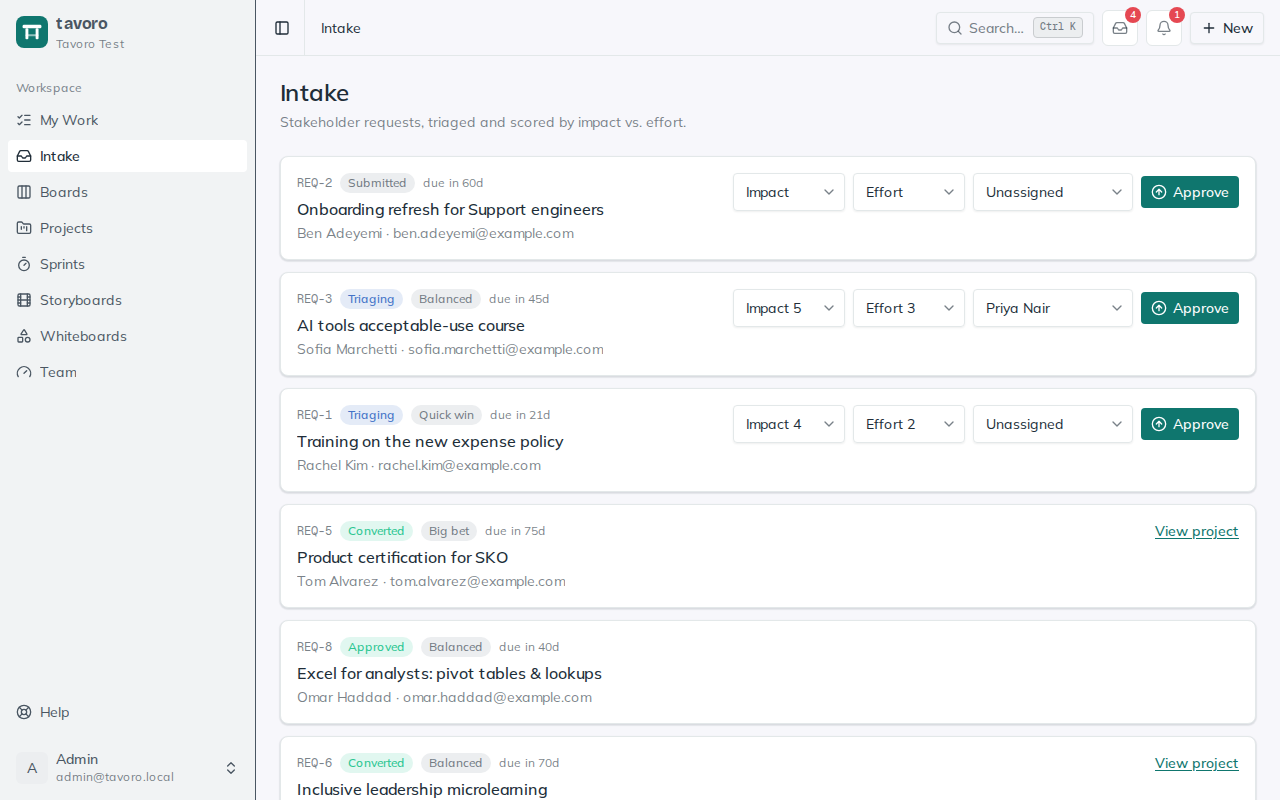
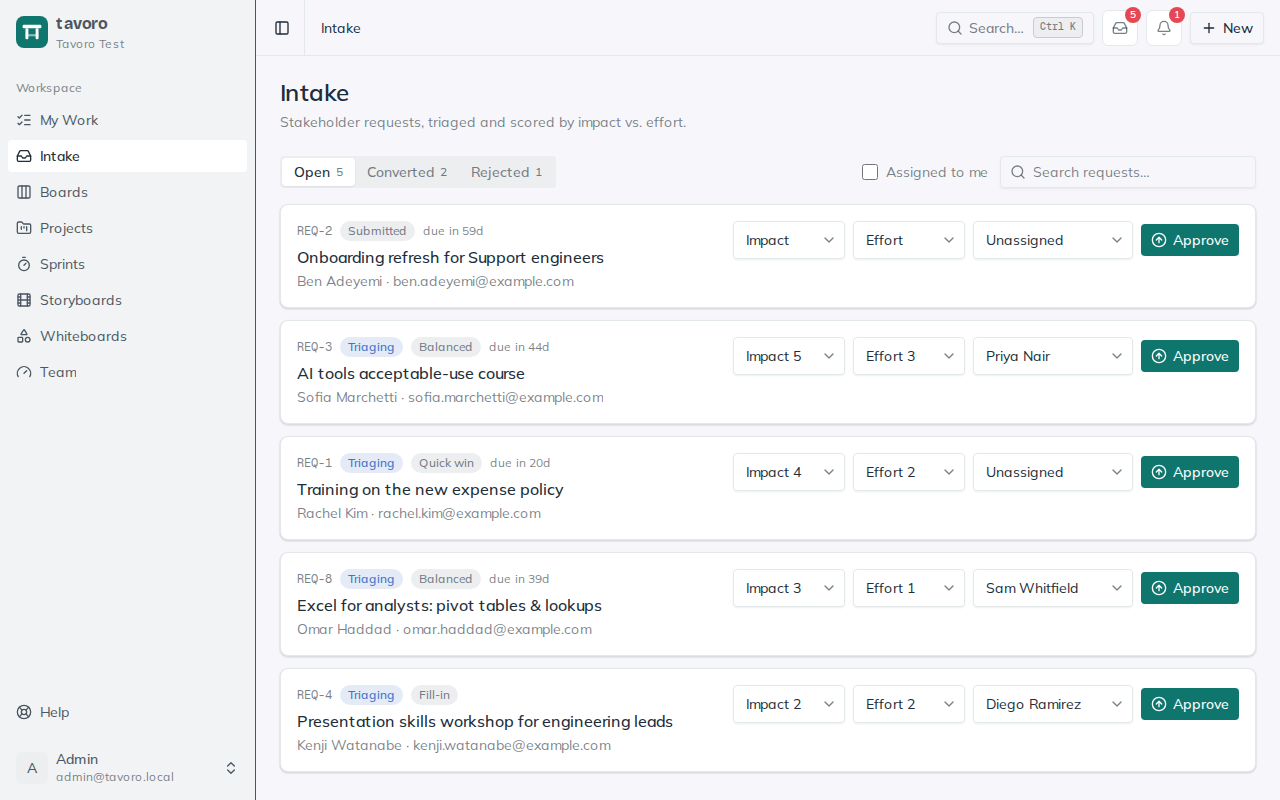
Intake: shorter methodology labels; screenshot script captures the approve dialog

Changed region(s): [[0.2188, 0.1875, 0.9688, 1.0]]

diff --git a/src/components/intake/approve-dialog.tsx b/src/components/intake/approve-dialog.tsx
@@ -18,8 +18,8 @@ import {
 } from "@/components/ui/dialog";
 
 const METHODOLOGIES = [
-  { value: "ADDIE", label: "ADDIE (Analyze, Design, Develop, Implement, Evaluate)" },
-  { value: "SAM", label: "SAM (Preparation, Iterative Design, Iterative Development)" },
+  { value: "ADDIE", label: "ADDIE (5 phases)" },
+  { value: "SAM", label: "SAM (3 phases)" },
   { value: "CUSTOM", label: "Custom (no phases yet)" },
 ] as const;
 
